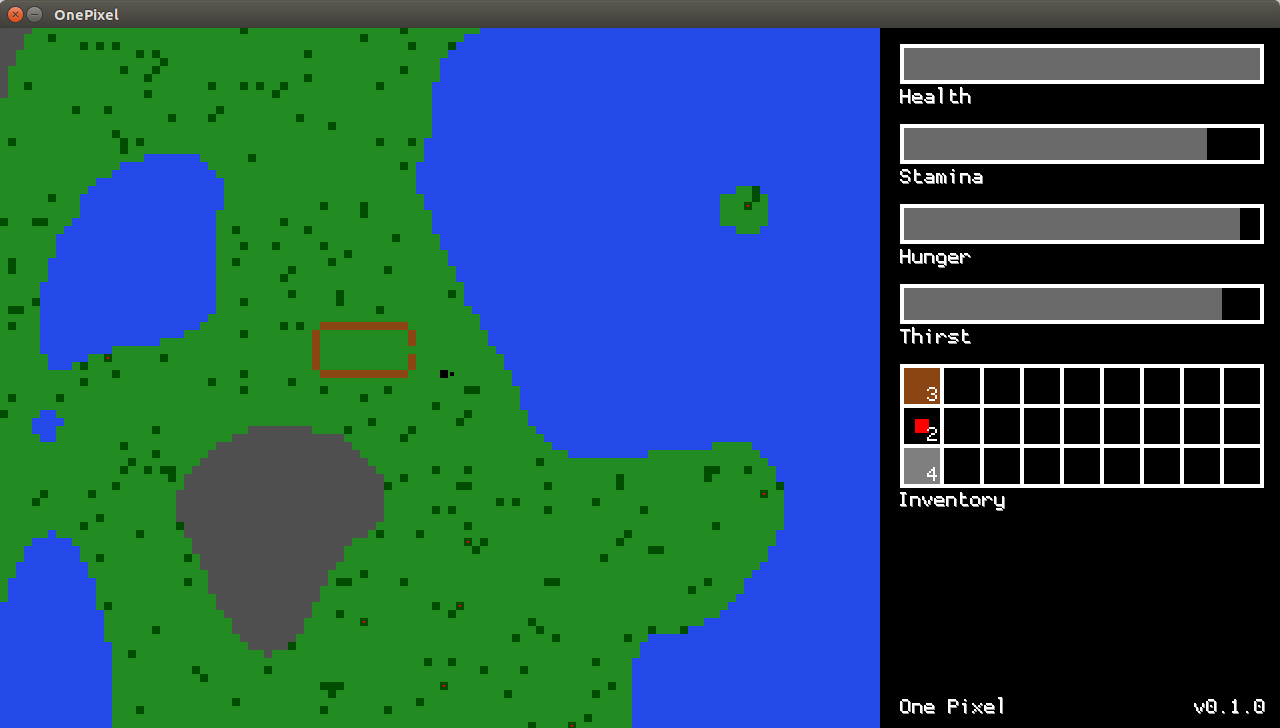
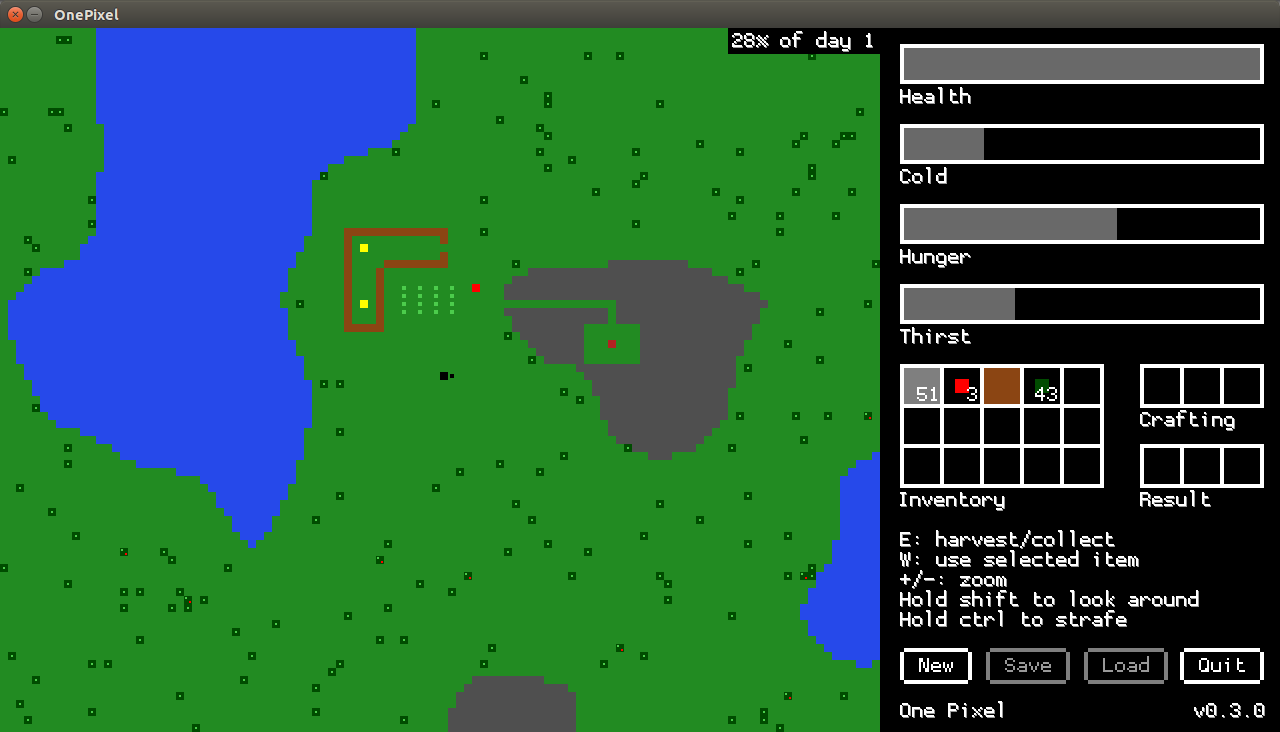
Updated readme and screenshot

diff --git a/README.md b/README.md
@@ -2,11 +2,3 @@
 Minimalist building/survival game made using Libgdx.
 
 ![screenshot](https://raw.github.com/lucasdnd/one-pixel/master/one-pixel-print.png)
-
-### Controls
-
-- Arrow keys: movement
-- E: collect or harvest
-- W: use item or place blocks
-- Plus and minus: zoom
-- Clicking inventory items will select them for use
